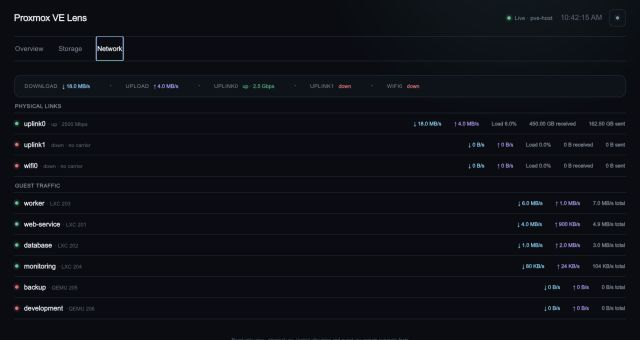
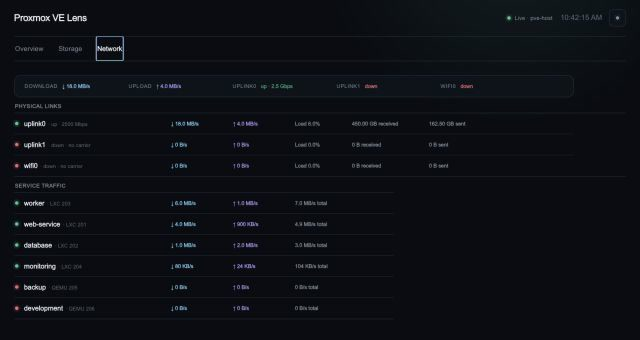
Refine storage and network presentation

diff --git a/app/page.tsx b/app/page.tsx
@@ -31,12 +31,12 @@ function ServiceList({guests}:{guests:Guest[]}){
 
 function StorageList({disks}:{disks:Disk[]}){
  const ordered=[...disks].sort((a,b)=>Number(Boolean(a.rotational))-Number(Boolean(b.rotational)));
- return <section className="surface storage-list" aria-label="Storage topology">{ordered.map(disk=>{const usage=disk.usagePercent??pct(disk.used,disk.size);const volumes=[...disk.volumes].sort((a,b)=>b.size-a.size);return <article className="disk-section" key={disk.name}><div className="disk-summary"><div className="disk-identity"><strong>{disk.model||disk.name}</strong><span className="quiet-label">· {disk.transport||'block'} · {disk.path}</span></div><div className="disk-live"><span><small>Capacity</small>{fmtBytes(disk.size)}</span><span><small>Used</small>{usage.toFixed(0)}%</span><span className="flow"><small>Disk I/O</small><b>↓ {fmtBytes(disk.readRate,true)}</b><b>↑ {fmtBytes(disk.writeRate,true)}</b></span></div></div><Meter value={usage}/><div className="volume-list">{volumes.map(volume=>{const used=volume.used??(volume.dataPercent!=null?volume.size*volume.dataPercent/100:0);const volumeUsage=volume.usagePercent??pct(used,volume.size);return <div className={`volume-row ${volume.kind==='thin volume'?'nested':''}`} key={`${disk.name}-${volume.name}-${volume.path}`}><div className="volume-identity"><strong>{volume.kind==='thin volume'?'↳ ':''}{volume.name}</strong><small>· {volume.mountpoint||volume.path}{volume.vmid?` · guest ${volume.vmid}`:''}</small></div><span>{volume.kind}</span><span>{fmtBytes(used)} / {fmtBytes(volume.size)}</span><div className="volume-meter"><Meter value={volumeUsage}/><small>{volumeUsage.toFixed(0)}%</small></div></div>})}</div></article>})}</section>
+ return <section className="surface storage-list" aria-label="Storage topology">{ordered.map(disk=>{const usage=disk.usagePercent??pct(disk.used,disk.size);const volumes=[...disk.volumes].sort((a,b)=>b.size-a.size);return <article className="disk-section" key={disk.name}><div className="disk-summary"><div className="disk-identity"><strong>{disk.model||disk.name}</strong><span className="quiet-label">· {disk.transport||'block'} · {disk.path}</span></div><div className="disk-live"><span><small>Capacity</small>{fmtBytes(disk.size)}</span><span><small>Used</small>{usage.toFixed(0)}%</span><span className="flow"><small>Disk I/O</small><b>↓ {fmtBytes(disk.readRate,true)}</b><b>↑ {fmtBytes(disk.writeRate,true)}</b></span></div></div><Meter value={usage}/><div className="volume-list">{volumes.map(volume=>{const used=volume.used??(volume.dataPercent!=null?volume.size*volume.dataPercent/100:0);const volumeUsage=volume.usagePercent??pct(used,volume.size);return <div className={`volume-row ${volume.kind==='thin volume'?'nested':''}`} key={`${disk.name}-${volume.name}-${volume.path}`}><div className="volume-identity"><strong>{volume.kind==='thin volume'?'↳ ':''}{volume.name}</strong><small>· {volume.mountpoint||volume.path} · {volume.kind}{volume.vmid?` · service ${volume.vmid}`:''}</small></div><span>{fmtBytes(used)} / {fmtBytes(volume.size)}</span><div className="volume-meter"><Meter value={volumeUsage}/><small>{volumeUsage.toFixed(0)}%</small></div></div>})}</div></article>})}</section>
 }
 
 function NetworkView({interfaces,guests,totals}:{interfaces:Interface[];guests:Guest[];totals:Snapshot['totals']}){
  const sorted=[...guests].sort((a,b)=>(b.receiveRate+b.transmitRate)-(a.receiveRate+a.transmitRate));
- return <><section className="status-rail network-rail"><div className="rail-row"><StatusItem label="Download" value={`↓ ${fmtBytes(totals.receiveRate,true)}`} className="read"/><StatusItem label="Upload" value={`↑ ${fmtBytes(totals.transmitRate,true)}`} className="write"/>{interfaces.map(i=><StatusItem key={i.name} label={i.name} value={`${i.status}${i.speedMbps?` · ${i.speedMbps>=1000?`${i.speedMbps/1000} Gbps`:`${i.speedMbps} Mbps`}`:''}`} className={i.status==='up'?'healthy':'attention'}/>)}</div></section><div className="section-label">Physical links</div><section className="surface plain-list">{interfaces.map(i=><article className="plain-row" key={i.name}><div className="service-name"><span className={`pulse ${i.status==='up'?'':'offline'}`}/><div><strong>{i.name}</strong><small>{i.status} · {i.speedMbps?`${i.speedMbps} Mbps`:'no carrier'}</small></div></div><div className="row-flows"><span className="read">↓ {fmtBytes(i.receiveRate,true)}</span><span className="write">↑ {fmtBytes(i.transmitRate,true)}</span><span>Load {(i.loadPercent||0).toFixed(1)}%</span><span>{fmtBytes(i.received)} received</span><span>{fmtBytes(i.transmitted)} sent</span></div></article>)}</section><div className="section-label">Guest traffic</div><section className="surface plain-list">{sorted.map(g=><article className="plain-row" key={`${g.type}-${g.vmid}`}><div className="service-name"><span className={`pulse ${g.status==='running'?'':'offline'}`}/><div><strong>{g.name}</strong><small>{g.type.toUpperCase()} {g.vmid}</small></div></div><div className="row-flows"><span className="read">↓ {fmtBytes(g.receiveRate,true)}</span><span className="write">↑ {fmtBytes(g.transmitRate,true)}</span><span>{fmtBytes(g.receiveRate+g.transmitRate,true)} total</span></div></article>)}</section></>
+ return <><section className="status-rail network-rail"><div className="rail-row"><StatusItem label="Download" value={`↓ ${fmtBytes(totals.receiveRate,true)}`} className="read"/><StatusItem label="Upload" value={`↑ ${fmtBytes(totals.transmitRate,true)}`} className="write"/>{interfaces.map(i=><StatusItem key={i.name} label={i.name} value={`${i.status}${i.speedMbps?` · ${i.speedMbps>=1000?`${i.speedMbps/1000} Gbps`:`${i.speedMbps} Mbps`}`:''}`} className={i.status==='up'?'healthy':'attention'}/>)}</div></section><div className="section-label">Physical links</div><section className="surface plain-list">{interfaces.map(i=><article className="plain-row physical-link-row" key={i.name}><div className="service-name"><span className={`pulse ${i.status==='up'?'':'offline'}`}/><div><strong>{i.name}</strong><small>{i.status} · {i.speedMbps?`${i.speedMbps} Mbps`:'no carrier'}</small></div></div><div className="row-flows"><span className="read">↓ {fmtBytes(i.receiveRate,true)}</span><span className="write">↑ {fmtBytes(i.transmitRate,true)}</span><span>Load {(i.loadPercent||0).toFixed(1)}%</span><span>{fmtBytes(i.received)} received</span><span>{fmtBytes(i.transmitted)} sent</span></div></article>)}</section><div className="section-label">Service traffic</div><section className="surface plain-list service-traffic-list">{sorted.map(g=><article className="plain-row service-traffic-row" key={`${g.type}-${g.vmid}`}><div className="service-name"><span className={`pulse ${g.status==='running'?'':'offline'}`}/><div><strong>{g.name}</strong><small>{g.type.toUpperCase()} {g.vmid}</small></div></div><div className="row-flows"><span className="read">↓ {fmtBytes(g.receiveRate,true)}</span><span className="write">↑ {fmtBytes(g.transmitRate,true)}</span><span>{fmtBytes(g.receiveRate+g.transmitRate,true)} total</span></div></article>)}</section></>
 }
 
 export default function Home(){
@@ -48,7 +48,7 @@ export default function Home(){
  const running=useMemo(()=>data.guests.filter(g=>g.status==='running').length,[data.guests]);const interfaces=data.node.interfaces||[];const hardware=data.hardware||fallback.hardware;const ssds=hardware.ssds||[];const ssdLabels=shortDriveLabels(ssds);const gpu=hardware.gpu;const activeTheme=theme||'dark';
  const memoryUsedPercent=pct(data.node.memoryUsed,data.node.memoryTotal);
  const gpuMemoryClass=gpu?healthTone(pct(gpu.memoryUsedMb,gpu.memoryTotalMb)):'normal';
- const overview=<><section className="status-rail"><div className="rail-row"><span className="rail-name">System</span><StatusItem label="Memory" value={`${fmtBytes(data.node.memoryUsed)} / ${fmtBytes(data.node.memoryTotal)}`} className={healthTone(memoryUsedPercent)}/><StatusItem label="Guests" value={`${running} / ${data.guests.length}`} className="info"/><StatusItem label="Memory Temp" value={hardware.memoryTemperature!=null?`${hardware.memoryTemperature.toFixed(0)} °C`:'—'} className={temperatureTone(hardware.memoryTemperature??undefined,75,85)}/><StatusItem label="Uptime" value={fmtUptime(data.node.uptime)} className="info"/></div><div className="rail-row"><span className="rail-name">CPU</span><StatusItem label="Temp" value={hardware.cpuTemperature!=null?`${hardware.cpuTemperature.toFixed(0)} °C`:'—'} className={temperatureTone(hardware.cpuTemperature??undefined,75,90)}/><StatusItem label="Usage" value={`${(data.node.cpu*100).toFixed(1)}%`} className={healthTone(data.node.cpu*100)}/><StatusItem label="Busiest core" value={`${(data.node.busiestCore*100).toFixed(1)}%`} className={healthTone(data.node.busiestCore*100)}/><StatusItem label="Frequency" value={data.node.cpuFrequencyGhz!=null?`${data.node.cpuFrequencyGhz.toFixed(2)} GHz`:'—'} className="info" title="Live average frequency across CPU cores"/></div><div className="rail-row"><span className="rail-name">Storage</span>{ssds.map((ssd,index)=><StatusItem key={ssd.name} label={ssdLabels[index]} value={`${ssd.temperature.toFixed(0)} °C`} className={!ssd.passed?'danger':temperatureTone(ssd.temperature,65,75)}/>)}<StatusItem label="HDD" value={hardware.hddTemperature!=null?`${hardware.hddTemperature.toFixed(0)} °C`:'Sleeping'} className={hardware.hddTemperature!=null?temperatureTone(hardware.hddTemperature,50,60):'normal'} title="Cached externally; Proxmox VE Lens does not wake the disk"/></div><div className="rail-row"><span className="rail-name">GPU</span><StatusItem label="Temp" value={gpu?`${gpu.temperature.toFixed(0)} °C`:'—'} className={temperatureTone(gpu?.temperature,75,85)}/><StatusItem label="Power" value={gpu?`${gpu.powerWatts.toFixed(0)} W`:'—'} className="info" title="Measured NVIDIA GPU power"/><StatusItem label="Usage" value={gpu?`${gpu.utilization.toFixed(0)}%`:'—'} className={gpu?healthTone(gpu.utilization):'normal'}/><StatusItem label="Memory" value={gpu?`${gpu.memoryUsedMb.toFixed(0)} / ${gpu.memoryTotalMb.toFixed(0)} MB`:'—'} className={gpuMemoryClass}/></div><div className="rail-row"><span className="rail-name">Activity</span><StatusItem label="Disk" value={<span className="pair"><b>↓ {fmtBytes(data.totals.readRate,true)}</b><b>↑ {fmtBytes(data.totals.writeRate,true)}</b></span>}/><StatusItem label="Disk load" value={`${(data.totals.diskBusyPercent||0).toFixed(0)}%`} className={healthTone(data.totals.diskBusyPercent||0)}/><StatusItem label="Network" value={<span className="pair"><b>↓ {fmtBytes(data.totals.receiveRate,true)}</b><b>↑ {fmtBytes(data.totals.transmitRate,true)}</b></span>}/><StatusItem label="Network load" value={`${(data.totals.networkLoadPercent||0).toFixed(1)}%`} className={healthTone(data.totals.networkLoadPercent||0)}/></div></section><div className="section-label">Services</div><ServiceList guests={data.guests}/></>;
+ const overview=<><section className="status-rail"><div className="rail-row"><span className="rail-name">System</span><StatusItem label="Memory" value={`${fmtBytes(data.node.memoryUsed)} / ${fmtBytes(data.node.memoryTotal)}`} className={healthTone(memoryUsedPercent)}/><StatusItem label="Services" value={`${running} / ${data.guests.length}`} className="info"/><StatusItem label="Memory Temp" value={hardware.memoryTemperature!=null?`${hardware.memoryTemperature.toFixed(0)} °C`:'—'} className={temperatureTone(hardware.memoryTemperature??undefined,75,85)}/><StatusItem label="Uptime" value={fmtUptime(data.node.uptime)} className="info"/></div><div className="rail-row"><span className="rail-name">CPU</span><StatusItem label="Temp" value={hardware.cpuTemperature!=null?`${hardware.cpuTemperature.toFixed(0)} °C`:'—'} className={temperatureTone(hardware.cpuTemperature??undefined,75,90)}/><StatusItem label="Usage" value={`${(data.node.cpu*100).toFixed(1)}%`} className={healthTone(data.node.cpu*100)}/><StatusItem label="Busiest core" value={`${(data.node.busiestCore*100).toFixed(1)}%`} className={healthTone(data.node.busiestCore*100)}/><StatusItem label="Frequency" value={data.node.cpuFrequencyGhz!=null?`${data.node.cpuFrequencyGhz.toFixed(2)} GHz`:'—'} className="info" title="Live average frequency across CPU cores"/></div><div className="rail-row"><span className="rail-name">Storage</span>{ssds.map((ssd,index)=><StatusItem key={ssd.name} label={ssdLabels[index]} value={`${ssd.temperature.toFixed(0)} °C`} className={!ssd.passed?'danger':temperatureTone(ssd.temperature,65,75)}/>)}<StatusItem label="HDD" value={hardware.hddTemperature!=null?`${hardware.hddTemperature.toFixed(0)} °C`:'Sleeping'} className={hardware.hddTemperature!=null?temperatureTone(hardware.hddTemperature,50,60):'normal'} title="Cached externally; Proxmox VE Lens does not wake the disk"/></div><div className="rail-row"><span className="rail-name">GPU</span><StatusItem label="Temp" value={gpu?`${gpu.temperature.toFixed(0)} °C`:'—'} className={temperatureTone(gpu?.temperature,75,85)}/><StatusItem label="Power" value={gpu?`${gpu.powerWatts.toFixed(0)} W`:'—'} className="info" title="Measured NVIDIA GPU power"/><StatusItem label="Usage" value={gpu?`${gpu.utilization.toFixed(0)}%`:'—'} className={gpu?healthTone(gpu.utilization):'normal'}/><StatusItem label="Memory" value={gpu?`${gpu.memoryUsedMb.toFixed(0)} / ${gpu.memoryTotalMb.toFixed(0)} MB`:'—'} className={gpuMemoryClass}/></div><div className="rail-row"><span className="rail-name">Activity</span><StatusItem label="Disk" value={<span className="pair"><b>↓ {fmtBytes(data.totals.readRate,true)}</b><b>↑ {fmtBytes(data.totals.writeRate,true)}</b></span>}/><StatusItem label="Disk load" value={`${(data.totals.diskBusyPercent||0).toFixed(0)}%`} className={healthTone(data.totals.diskBusyPercent||0)}/><StatusItem label="Network" value={<span className="pair"><b>↓ {fmtBytes(data.totals.receiveRate,true)}</b><b>↑ {fmtBytes(data.totals.transmitRate,true)}</b></span>}/><StatusItem label="Network load" value={`${(data.totals.networkLoadPercent||0).toFixed(1)}%`} className={healthTone(data.totals.networkLoadPercent||0)}/></div></section><div className="section-label">Services</div><ServiceList guests={data.guests}/></>;
 
- return <main className="shell"><header className="topbar"><h1>Proxmox VE Lens</h1><div className="header-actions"><div className="node-state"><span className={`pulse ${online?'':'offline'}`}/><span>{online?`Live · ${data.node.name}`:`Unavailable${lastError?` · ${lastError}`:''}`}</span><time>{data.generatedAt?new Date(data.generatedAt).toLocaleTimeString():'—'}</time></div><button className="theme-toggle" aria-label={`Switch to ${activeTheme==='dark'?'light':'dark'} theme`} onClick={()=>setTheme(activeTheme==='dark'?'light':'dark')}>{activeTheme==='dark'?'☀':'☾'}</button></div></header><nav className="tabs" role="tablist" aria-label="Proxmox VE Lens sections">{tabs.map(tab=><button key={tab.id} role="tab" aria-selected={activeTab===tab.id} className={activeTab===tab.id?'active':''} onClick={()=>setActiveTab(tab.id)}>{tab.label}</button>)}</nav><div className="tab-content" role="tabpanel">{activeTab==='overview'&&overview}{activeTab==='storage'&&<StorageList disks={data.disks}/>} {activeTab==='network'&&<NetworkView interfaces={interfaces} guests={data.guests} totals={data.totals}/>}</div><footer>Read-only view · physical use, logical allocation and guest use remain separate facts</footer></main>
+ return <main className="shell"><header className="topbar"><h1>Proxmox VE Lens</h1><div className="header-actions"><div className="node-state"><span className={`pulse ${online?'':'offline'}`}/><span>{online?`Live · ${data.node.name}`:`Unavailable${lastError?` · ${lastError}`:''}`}</span><time>{data.generatedAt?new Date(data.generatedAt).toLocaleTimeString():'—'}</time></div><button className="theme-toggle" aria-label={`Switch to ${activeTheme==='dark'?'light':'dark'} theme`} onClick={()=>setTheme(activeTheme==='dark'?'light':'dark')}>{activeTheme==='dark'?'☀':'☾'}</button></div></header><nav className="tabs" role="tablist" aria-label="Proxmox VE Lens sections">{tabs.map(tab=><button key={tab.id} role="tab" aria-selected={activeTab===tab.id} className={activeTab===tab.id?'active':''} onClick={()=>setActiveTab(tab.id)}>{tab.label}</button>)}</nav><div className="tab-content" role="tabpanel">{activeTab==='overview'&&overview}{activeTab==='storage'&&<StorageList disks={data.disks}/>} {activeTab==='network'&&<NetworkView interfaces={interfaces} guests={data.guests} totals={data.totals}/>}</div></main>
 }

diff --git a/app/globals.css b/app/globals.css
@@ -32,7 +32,21 @@
 /* Match Storage and Network typography to the Overview scale. */
 .network-rail .status-item>span,.network-rail .status-item>strong,.network-rail .pair{font-family:var(--font-geist-sans),system-ui,sans-serif;font-size:10px}.network-rail .status-item>span{font-weight:400}.network-rail .status-item>strong,.network-rail .pair b{font-weight:600}
 .plain-list .service-name strong{font-family:var(--font-geist-sans),system-ui,sans-serif;font-size:13px;font-weight:700}.plain-list .service-name small{font-family:var(--font-geist-sans),system-ui,sans-serif;font-size:10px;font-weight:400}.plain-list .row-flows{font-family:var(--font-geist-sans),system-ui,sans-serif;font-size:10px;font-weight:600}
-.disk-summary strong,.volume-row strong{font-family:var(--font-geist-sans),system-ui,sans-serif;font-size:13px;font-weight:700}.disk-summary small,.disk-identity .quiet-label,.disk-live small,.volume-row small{font-family:var(--font-geist-sans),system-ui,sans-serif;font-size:10px;font-weight:400}.disk-live>span{font-family:var(--font-geist-sans),system-ui,sans-serif;font-size:10px;font-weight:600}.volume-row{font-family:var(--font-geist-sans),system-ui,sans-serif;font-size:10px}.volume-row>span{font-size:10px;font-weight:400}.volume-row>span:nth-of-type(2),.volume-meter small{font-weight:600}
+.disk-summary strong,.volume-row strong{font-family:var(--font-geist-sans),system-ui,sans-serif;font-size:13px;font-weight:700}.disk-summary small,.disk-identity .quiet-label,.disk-live small,.volume-row small{font-family:var(--font-geist-sans),system-ui,sans-serif;font-size:10px;font-weight:400}.disk-live>span{font-family:var(--font-geist-sans),system-ui,sans-serif;font-size:10px;font-weight:600}.volume-row{font-family:var(--font-geist-sans),system-ui,sans-serif;font-size:10px}.volume-row>span,.volume-meter small{font-size:10px;font-weight:600}
 
-@media(max-width:820px){.disk-summary{align-items:flex-start;flex-direction:column}.disk-live{width:100%;justify-content:space-between}.volume-row{align-items:flex-start;flex-wrap:wrap}.volume-row>div:first-child{flex-basis:100%}.row-flows{overflow-x:auto;justify-content:flex-start}.plain-row{align-items:flex-start}}
+/* Compact, left-aligned data grids keep labels and values visually related. */
+.storage-list,.network-rail,.physical-link-row{max-width:1120px}.service-traffic-list{width:min(760px,100%)}
+.disk-summary{display:grid;grid-template-columns:minmax(280px,520px) auto;justify-content:start;align-items:end;column-gap:40px}
+.disk-live{display:grid;grid-template-columns:90px 70px 220px;justify-content:start;column-gap:24px}
+.volume-row{display:grid;grid-template-columns:minmax(300px,560px) 180px 150px;justify-content:start;column-gap:22px}
+.volume-meter{width:150px}
+.plain-row{display:grid;grid-template-columns:280px auto;justify-content:start;column-gap:32px}
+.row-flows{display:grid;justify-content:start;column-gap:24px}
+.physical-link-row .row-flows{grid-template-columns:100px 100px 90px 130px 130px}
+.service-traffic-row .row-flows{grid-template-columns:100px 100px 120px}
+.network-rail .rail-row{display:grid;grid-template-columns:repeat(auto-fit,minmax(135px,180px));justify-content:start;column-gap:28px}
+.network-rail .status-item,.network-rail .status-item+.status-item{padding-left:0;padding-right:0}
+.network-rail .status-item+.status-item::before{display:none}
+
+@media(max-width:820px){.disk-summary{grid-template-columns:1fr;row-gap:10px}.disk-live{width:100%;grid-template-columns:90px 70px minmax(190px,220px)}.volume-row{display:flex;align-items:flex-start;flex-wrap:wrap}.volume-row>div:first-child{flex-basis:100%}.plain-row{display:flex;align-items:flex-start}.row-flows{display:flex;overflow-x:auto;justify-content:flex-start}.network-rail .rail-row{display:flex}}
 @media(max-width:560px){.shell{padding:0 14px 32px}.topbar{min-height:64px}.node-state time{display:none}.tabs{gap:24px}.tab-content{padding-top:20px}.rail-row{padding:0 16px}.status-item{padding-right:30px}.status-item+.status-item{padding-left:24px}.rail-name{margin-right:24px}.disk-live{flex-wrap:wrap;justify-content:flex-start}.volume-list{margin-left:8px}.volume-meter{width:130px}.plain-row{flex-direction:column;gap:12px}.row-flows{width:100%}}

diff --git a/app/layout.tsx b/app/layout.tsx
@@ -14,7 +14,7 @@ const geistMono = Geist_Mono({
 
 export const metadata: Metadata = {
   title: 'Proxmox VE Lens',
-  description: 'Read-only Proxmox storage topology and live guest activity.',
+  description: 'Read-only Proxmox storage topology and live service activity.',
 };
 
 export default function RootLayout({

diff --git a/docs/storage.md b/docs/storage.md
@@ -2,6 +2,8 @@
 
 The Storage view keeps physical devices, logical allocation and measured usage visibly separate.
 
+Volume rows keep the name, mount point or device path, and storage type together on one line.
+
 ![Proxmox VE Lens storage view](images/storage.jpg)
 
 The current implementation is read-only. Storage-management operations are planned as a separate capability with explicit safeguards.

diff --git a/docs/network.md b/docs/network.md
@@ -2,6 +2,8 @@
 
 The Network view shows physical links, negotiated speed, current load and traffic attributed to each service.
 
+Service traffic is presented separately in compact download, upload and total columns.
+
 ![Proxmox VE Lens network view](images/network.jpg)
 
 [Back to overview](../README.md)
